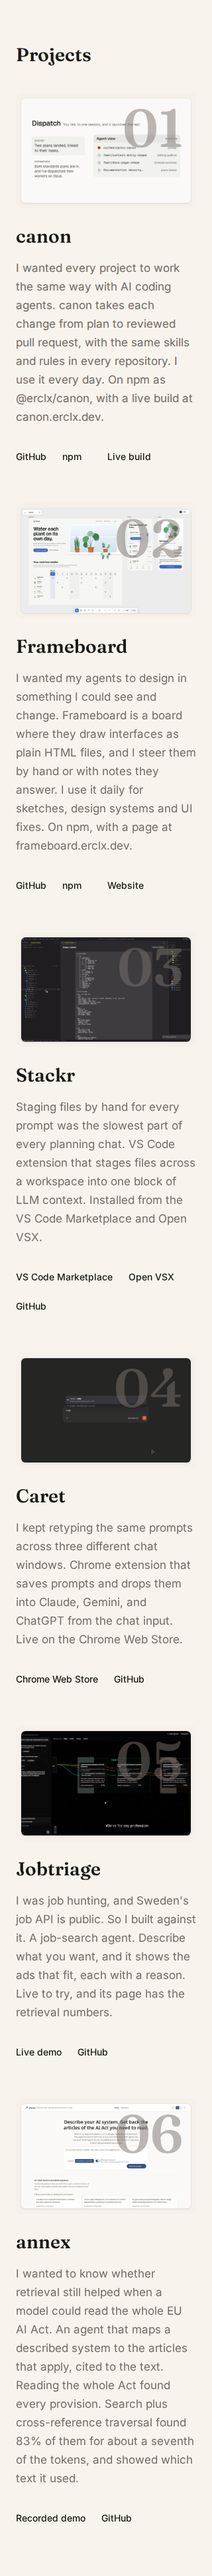
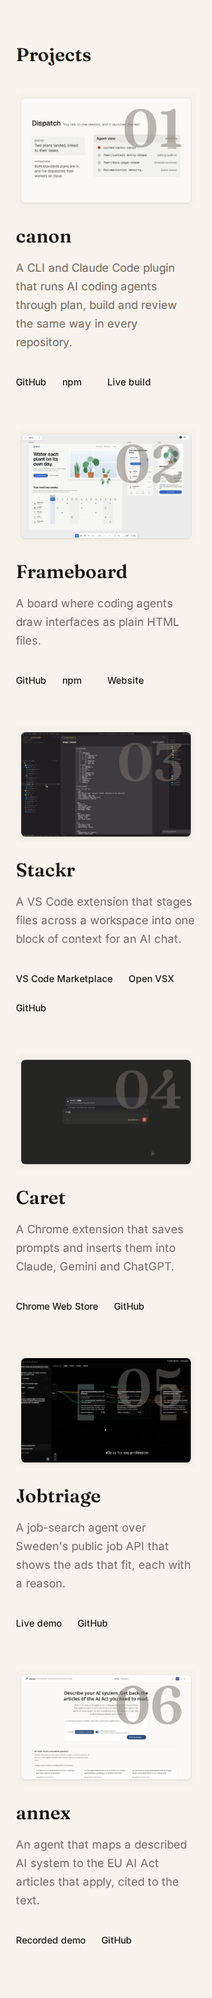
feat(projects): use the one-line card descriptions from compass (#163)
## Summary

Replace the six long project card descriptions with the one-line versions compass carries to keep the cards short and the copy owned at its source.

## Key changes

- Replace the six `description` strings in `src/components/site/projects/projects.astro` with the lines from compass `origin/main` at `646e0d8`, word for word.
- Pin the six lines in `src/test/rendered-copy.test.ts` as one exact `CARD_LINES` check, replacing the per-card phrase tests.
- Assert the canon card still links `https://www.npmjs.com/package/@erclx/canon` in `src/test/rendered-copy.test.ts`.
- Restate the description bullet in `canon/context/sections/project-cards.md` as the one compass line.
- Recapture `.github/evidence/surfaces/home/projects/1280--default.png` and `.github/evidence/surfaces/home/projects/320--default.png` for the shorter cards.

## Technical context

**Exact equality.** A `toContain` phrase would pass on a card that kept old prose, so the test compares the whole description paragraph against the array.

**Dropped facts.** The `@erclx/canon` scope, the Jobtriage retrieval-numbers sentence, and the annex 83% figure leave the cards on purpose. The route pages still carry them.

Changed region(s): [[0.0625, 0.0, 0.9062, 0.9897]]

diff --git a/src/test/rendered-copy.test.ts b/src/test/rendered-copy.test.ts
@@ -86,6 +86,14 @@ const CARD_NAMES = [
   'Jobtriage',
   'annex',
 ]
+const CARD_LINES = [
+  'A CLI and Claude Code plugin that runs AI coding agents through plan, build and review the same way in every repository.',
+  'A board where coding agents draw interfaces as plain HTML files.',
+  'A VS Code extension that stages files across a workspace into one block of context for an AI chat.',
+  'A Chrome extension that saves prompts and inserts them into Claude, Gemini and ChatGPT.',
+  "A job-search agent over Sweden's public job API that shows the ads that fit, each with a reason.",
+  'An agent that maps a described AI system to the EU AI Act articles that apply, cited to the text.',
+]
 const CARD_SELECTOR = '#projects article'
 // One per beat in the timeline. The record is a local const inside the
 // component, so the count is stated here rather than derived.
@@ -508,19 +516,19 @@ describe('the projects section', () => {
     ).toHaveLength(1)
   })
 
-  it('writes the npm scope on the canon card', () => {
-    expect(card(0)).toContain('@erclx/canon')
-  })
-
-  it('renders the description the source carries on the canon card', () => {
-    expect(card(0)).toContain(
-      'canon takes each change from plan to reviewed pull request, with the same skills and rules in every repository.',
+  it('pins each card description to its compass line', () => {
+    const descriptions = queryAll(home, `${CARD_SELECTOR} h3 + p`).map((p) =>
+      collapse(p.textContent),
     )
+
+    expect(descriptions).toEqual(CARD_LINES)
   })
 
-  it('renders the description the source carries on the Frameboard card', () => {
-    expect(card(1)).toContain(
-      'Frameboard is a board where they draw interfaces as plain HTML files, and I steer them by hand or with notes they answer.',
+  it('links the canon card to the npm package', () => {
+    const canon = queryAll(home, CARD_SELECTOR)[0] ?? home
+
+    expect(queryAll(canon, 'a').map((a) => a.getAttribute('href'))).toContain(
+      'https://www.npmjs.com/package/@erclx/canon',
     )
   })
 
@@ -556,34 +564,10 @@ describe('the projects section', () => {
     expect(overlays).toHaveLength(cards.length)
   })
 
-  it('renders the description the source carries on the Jobtriage card', () => {
-    expect(card(4)).toContain(
-      'A job-search agent. Describe what you want, and it shows the ads that fit, each with a reason. Live to try, and its page has the retrieval numbers.',
-    )
-  })
-
   it('names no provider the source leaves out on the Jobtriage card', () => {
     expect(card(4)).toContain('Jobtriage')
 
     expect(card(4)).not.toContain('OpenAI')
-  })
-
-  it('renders the description the source carries on the Stackr card', () => {
-    expect(card(2)).toContain(
-      'stages files across a workspace into one block of LLM context',
-    )
-  })
-
-  it('renders the description the source carries on the Caret card', () => {
-    expect(card(3)).toContain(
-      'saves prompts and drops them into Claude, Gemini, and ChatGPT',
-    )
-  })
-
-  it('renders the description the source carries on the annex card', () => {
-    expect(card(5)).toContain(
-      'Search plus cross-reference traversal found 83% of them for about a seventh of the tokens, and showed which text it used.',
-    )
   })
 
   it('opens the annex route from its card', () => {

diff --git a/canon/context/sections/project-cards.md b/canon/context/sections/project-cards.md
@@ -21,7 +21,7 @@ Holds the section, one card's markup, and `tilt.ts`. A card draws no plate or ou
 - Each row link carries `z-10` itself, since raising the `<ul>` puts its full-width box over the overlay and kills the gaps between links
 - `tilt.ts` runs one rAF loop for every card, rotating the media slot up to 6° and shifting it 8px, and stops under reduced motion
 - An odd card count makes the last card span both columns from `lg`, with its still beside its text, which six cards never trigger
-- A description is the project's portfolio prose minus its leading article and its trailing sentence naming the links
+- A description is the one line the copy owner writes in compass, copied word for word, and the rendered-copy test pins all six exactly
 
 ## Gotchas
 
